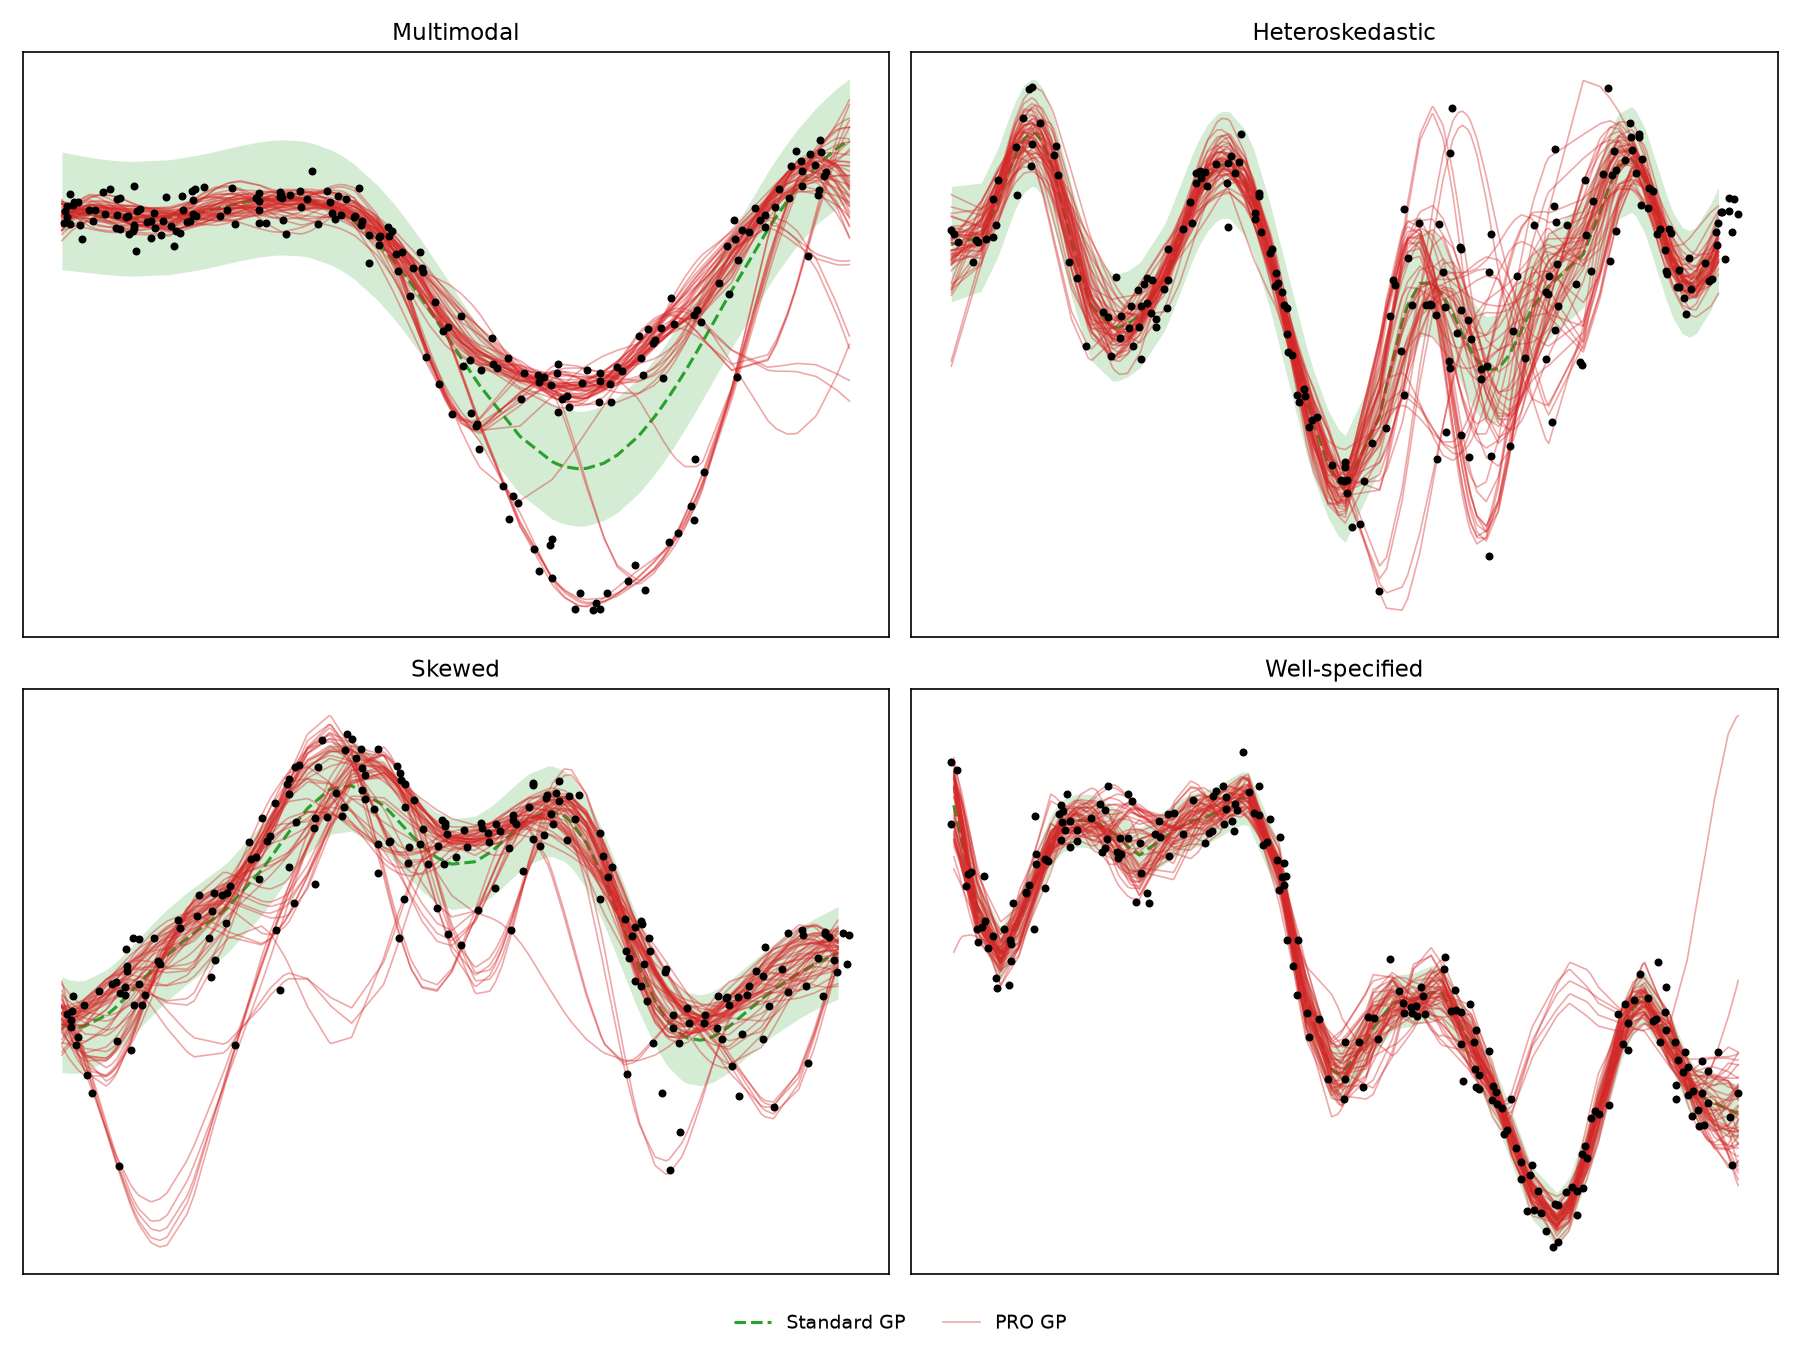
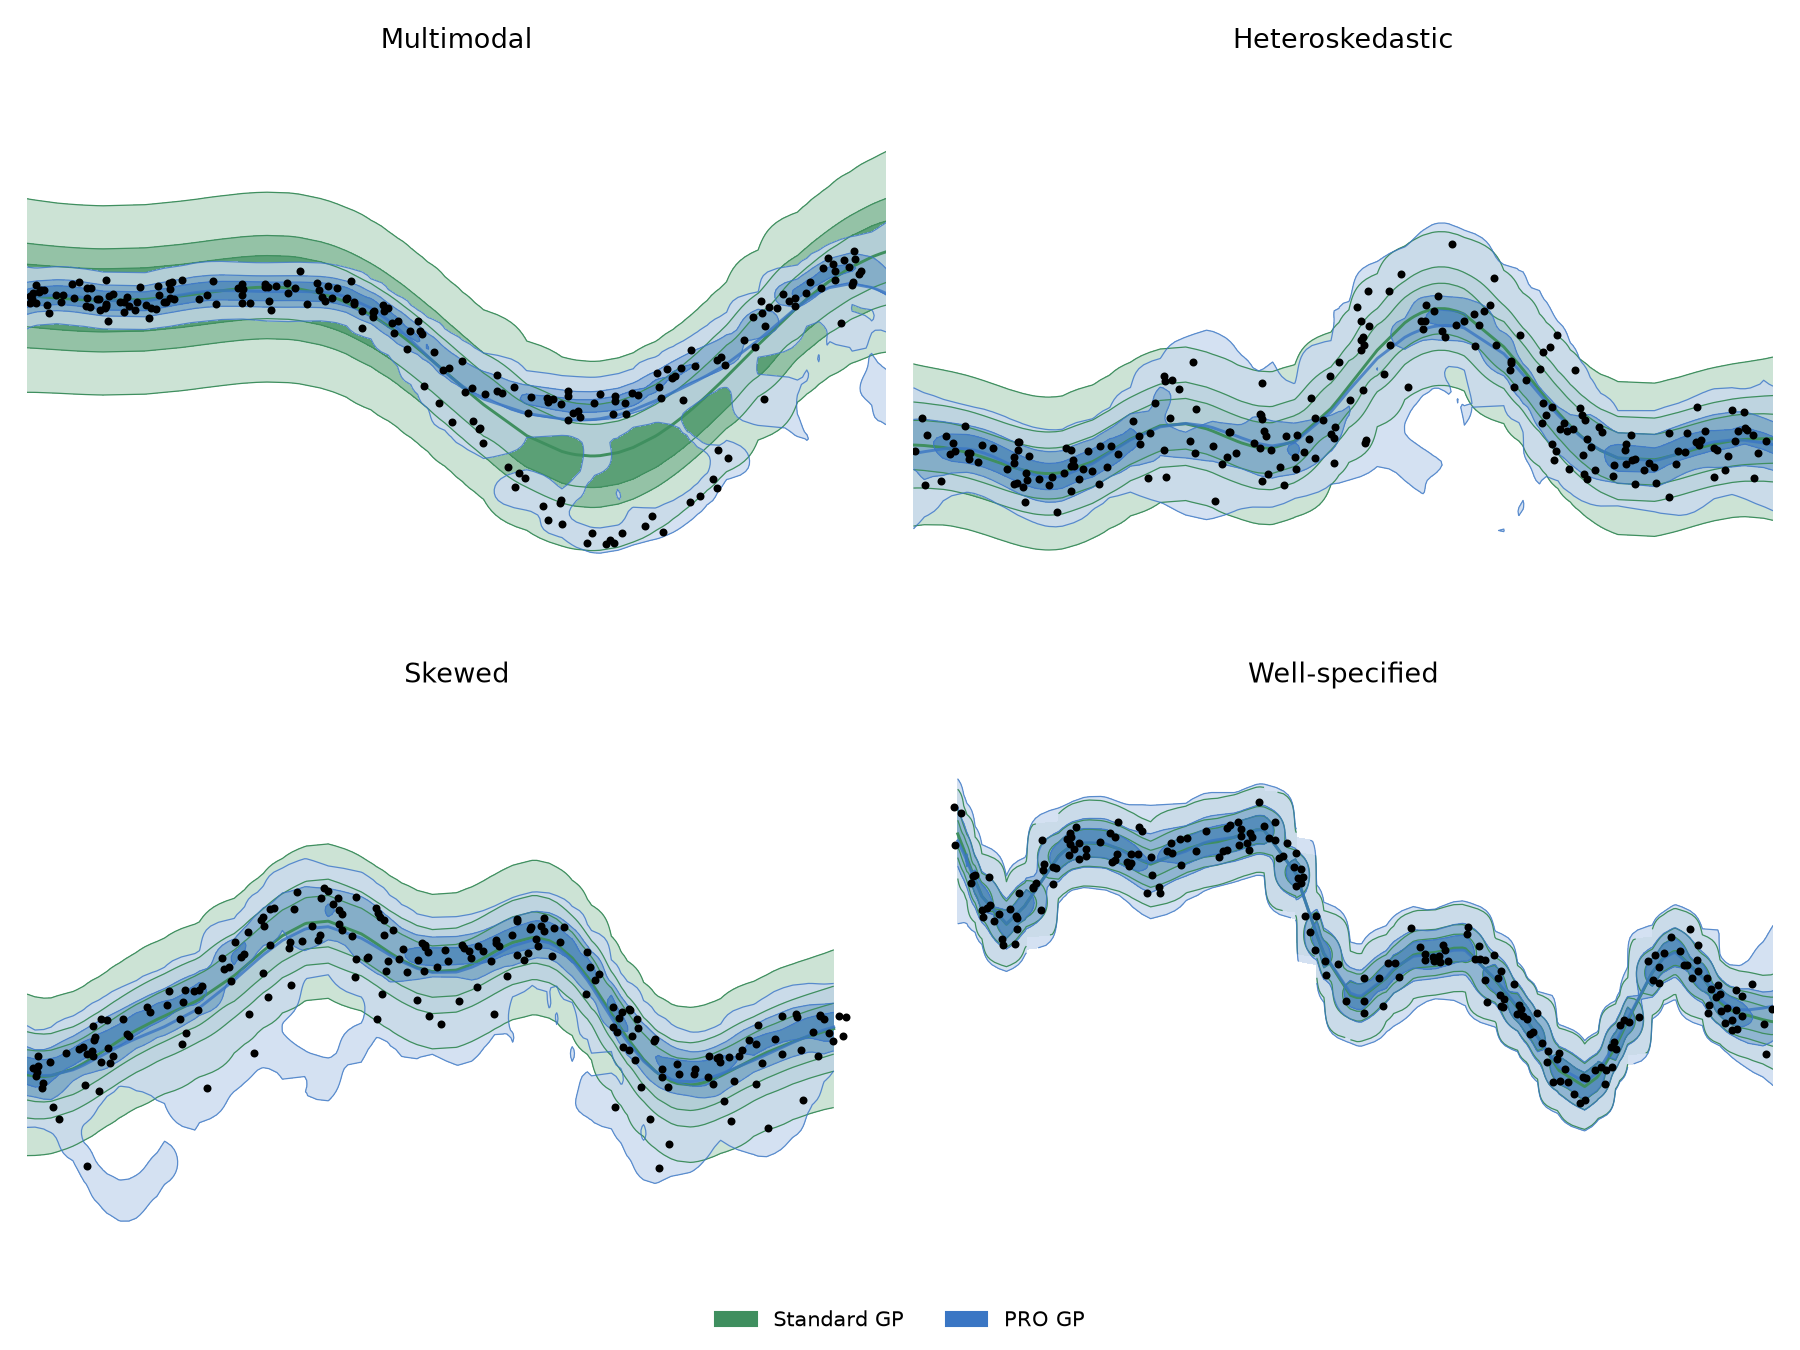
.

diff --git a/experiments/synthetic/example_grid.py b/experiments/synthetic/example_grid.py
@@ -32,6 +32,9 @@ matplotlib.use("Agg")
 import jax.numpy as jnp
 import jax.random as jr
 import matplotlib.pyplot as plt
+import numpy as np
+from matplotlib.colors import LinearSegmentedColormap
+from matplotlib.patches import Patch
 
 from non_parametric_pro.data.heteroskedastic import (
     make_heteroskedastic_instance,
@@ -48,8 +51,35 @@ from synthetic import FitResult, fit_gp, fit_pro
 
 FIGURES_DIR = Path(__file__).resolve().parent / "figures"
 
-GP_COLOR = "C2"
-PRO_COLOR = "C3"
+# GP green vs. PRO blue -- a hue contrast, which holds up far better than a
+# lightness-only contrast (e.g. grey vs. red) once PRO is drawn semi-transparent on top
+# and the two start blending. GP is opaque, drawn first, so it reads as a plain
+# background reference; PRO draws on top with alpha < 1 (see PRO_ALPHA), so GP still
+# shows through wherever they overlap instead of being fully occluded -- important
+# since the two bands are often nearly coincident (that overlap *is* the interesting
+# comparison). Each also gets a crisp outline in its own full color at every band
+# boundary (see _masked_density_bands' edge_color), so shapes stay readable even in the
+# muddiest overlap regions where the fills alone are ambiguous.
+GP_COLOR = "#3f8f5f"
+PRO_COLOR = "#3a76c4"
+GP_CMAP = LinearSegmentedColormap.from_list("gp_density", ["#e8f4ec", GP_COLOR])
+PRO_CMAP = LinearSegmentedColormap.from_list("pro_density", ["#e6eef8", PRO_COLOR])
+PRO_ALPHA = 0.8
+
+# Paper-figure formatting: no ticks (this is a qualitative comparison, not meant for
+# reading off values), no spines (nothing left for them to frame once ticks are gone),
+# a faint grid for scale reference instead.
+plt.rcParams.update({
+    "font.size": 12,
+    "axes.spines.top": False,
+    "axes.spines.right": False,
+    "axes.spines.left": False,
+    "axes.spines.bottom": False,
+    "axes.grid": True,
+    "grid.color": "#e1e0d9",
+    "grid.linewidth": 0.6,
+    "legend.frameon": False,
+})
 
 class SourceSpec(NamedTuple):
     """One panel's dataset source: `kwargs` mirrors that dataset's own
@@ -88,9 +118,9 @@ _SOURCES = [
         "Heteroskedastic",
         make_heteroskedastic_instance,
         plot_heteroskedastic_case,
-        {"num_regions": 2, "amplitude_frac": 0.8, "min_width": 0.3, "max_width": 0.8},
+        {"num_regions": 2, "min_width": 0.3, "max_width": 0.8},
         {"show_curve": False, "show_noise_bands": False},
-        instance_index=9,
+        instance_index=15,
     ),
     SourceSpec(
         "skewed",
@@ -113,45 +143,103 @@ _SOURCES = [
 ]
 
 
-def _overlay_gp_band(ax, x_test, result: FitResult, *, color, label) -> None:
-    """Standard GP predictive: single-Gaussian mean +- std band. Sort by x and
-    connect -- same convention every `plot_..._case` already uses for the true
-    function."""
+# Shared by both overlays below, so "similar proportion of predictive density shown"
+# is true by construction rather than eyeballed: same credible_k cutoff, same number
+# of band levels, same min_density_frac floor, for both models.
+_DENSITY_DEFAULTS = {"num_bands": 4, "credible_k": 5.0, "num_y": 150, "min_density_frac": 0.03}
+
+
+def _masked_density_bands(  # noqa: PLR0913
+    ax, x_sorted, mean_sorted, std_sorted, density_fn, *,
+    cmap, num_bands, credible_k, num_y, min_density_frac, alpha=1.0, edge_color=None,
+) -> None:
+    """Render `density_fn(y_grid) -> (N_x, N_y) p(y|x)` as a small number of discrete
+    filled bands, masked to each x's own `mean +- credible_k*std` -- so nothing is
+    drawn outside the region a moment-based (mean/std) plot would already call
+    plausible -- and floored at `min_density_frac` of the panel's peak, which is what
+    keeps a handful of discrete bands from looking like one blurry wash rather than a
+    smooth continuous heatmap. `alpha < 1` lets whatever's already drawn underneath
+    (e.g. the other model's band) show through where the two overlap. `edge_color`
+    (typically the model's own full-saturation color, not the light end of `cmap`)
+    strokes a thin outline at every band boundary, so shapes stay legible even where
+    the fills of two overlapping bands are close enough in color to blur together.
+    """
+    y_lo = float(jnp.min(mean_sorted - credible_k * std_sorted))
+    y_hi = float(jnp.max(mean_sorted + credible_k * std_sorted))
+    y_grid = jnp.linspace(y_lo, y_hi, num_y)
+
+    density = density_fn(y_grid)
+    in_band = jnp.abs(y_grid[None, :] - mean_sorted[:, None]) <= credible_k * std_sorted[:, None]
+    density = np.asarray(jnp.where(in_band, density, jnp.nan))
+
+    peak = np.nanmax(density)
+    levels = np.linspace(min_density_frac, 1.0, num_bands) * peak
+
+    x_grid, y_mesh = np.meshgrid(np.asarray(x_sorted), np.asarray(y_grid), indexing="ij")
+    ax.contourf(x_grid, y_mesh, density, levels=levels, cmap=cmap, alpha=alpha, extend="neither")
+    if edge_color is not None:
+        ax.contour(x_grid, y_mesh, density, levels=levels, colors=edge_color, linewidths=0.6, alpha=alpha)
+    ax.plot(x_sorted, mean_sorted, color=edge_color or cmap(1.0), linewidth=1.4, alpha=alpha)
+
+
+def _overlay_gp_density(ax, x_test, result: FitResult, *, cmap, alpha=1.0, **density_kwargs) -> None:
+    """Standard GP predictive: p(y|x) for its single Gaussian mean/std, rendered with
+    the exact same discrete-band/credible-mask convention as `_overlay_pro_density`
+    (identical defaults, see `_DENSITY_DEFAULTS`) -- so the two overlays show a
+    genuinely comparable *proportion* of predictive density, not just visually similar
+    bands. A plain mean +- 1std band has no way to match that masking convention.
+    Drawn fully opaque (default) as the background layer -- see PRO_ALPHA on the other
+    overlay, which is what actually lets this show through underneath it."""
     order = jnp.argsort(x_test[:, 0])
     x_sorted = x_test[order, 0]
     mean_sorted, std_sorted = result.mean[order], result.std[order]
 
-    ax.plot(x_sorted, mean_sorted, color=color, linewidth=1.5, linestyle="--", label=label)
-    ax.fill_between(
-        x_sorted, mean_sorted - std_sorted, mean_sorted + std_sorted,
-        color=color, alpha=0.2, linewidth=0,
+    def density_fn(y_grid):
+        z = (y_grid[None, :] - mean_sorted[:, None]) / std_sorted[:, None]
+        return jnp.exp(-0.5 * z**2) / (std_sorted[:, None] * jnp.sqrt(2 * jnp.pi))
+
+    _masked_density_bands(
+        ax, x_sorted, mean_sorted, std_sorted, density_fn, cmap=cmap, alpha=alpha, edge_color=GP_COLOR,
+        **{**_DENSITY_DEFAULTS, **density_kwargs},
     )
 
 
-def _overlay_pro_draws(ax, x_test, result: FitResult, *, color, label) -> None:
-    """PRO GP predictive: a spaghetti plot of `posterior_function_draws` -- a mean +-
-    std band would moment-match away exactly the multimodality PRO's mixture
-    predictive is meant to capture (a bimodal mixture and a unimodal Gaussian can share
-    the same mean/std). Each line is one smooth, coherent function draw (not per-point
-    noise), so a multimodal predictive shows up as the lines visibly forking into
-    separate bundles rather than one smeared-out band."""
+def _overlay_pro_density(ax, x_test, result: FitResult, *, cmap, alpha=1.0, **density_kwargs) -> None:
+    """PRO GP predictive: the exact mixture-of-Gaussians density p(y|x) -- rendered
+    directly (not sampled), as a small number of discrete filled bands rather than a
+    smooth continuous heatmap, so it stays a light complement to the data rather than a
+    visually heavy layer. A mean +- std band would moment-match away exactly the
+    multimodality this is meant to show (a bimodal mixture and a unimodal Gaussian can
+    share the same mean/std); unlike posterior-function-draws spaghetti, this reads off
+    the density directly (no "how many draws is enough" question), at the cost of being
+    a per-x marginal -- it can't show whether the upper ridge at one x and the upper
+    ridge at another belong to the same coherent function the way draws can. Drawn on
+    top of the standard GP's band with `alpha < 1` (see PRO_ALPHA) so the two remain
+    distinguishable wherever they overlap, rather than PRO fully occluding GP."""
     order = jnp.argsort(x_test[:, 0])
     x_sorted = x_test[order, 0]
-    draws_sorted = result.function_draws[order]
+    mean_sorted = result.mean[order]
+    std_sorted = result.std[order]
+    particle_predictions_sorted = result.particle_predictions[order]  # (N_x, J)
+    sigma_eff_sorted = result.sigma_eff[order]  # (N_x,)
 
-    ax.plot(x_sorted, draws_sorted[:, 0], color=color, linewidth=0.8, alpha=0.4, label=label)
-    ax.plot(x_sorted, draws_sorted[:, 1:], color=color, linewidth=0.8, alpha=0.4)
+    def density_fn(y_grid):
+        # Same sigma_eff each particle is scored with in nlpd_pro, just evaluated on a
+        # dense y grid instead of at the observed y_test.
+        z = (y_grid[None, :, None] - particle_predictions_sorted[:, None, :]) / sigma_eff_sorted[:, None, None]
+        normal_pdf = jnp.exp(-0.5 * z**2) / (sigma_eff_sorted[:, None, None] * jnp.sqrt(2 * jnp.pi))
+        return jnp.mean(normal_pdf, axis=2)
+
+    _masked_density_bands(
+        ax, x_sorted, mean_sorted, std_sorted, density_fn, cmap=cmap, alpha=alpha, edge_color=PRO_COLOR,
+        **{**_DENSITY_DEFAULTS, **density_kwargs},
+    )
 
 
 def main(seed: int, num_instances: int, index_overrides: dict[str, int]) -> None:
-    # Same convention as `synthetic.py`'s `evaluate`/`debug_instance`: one shared key
-    # split `num_instances` ways, so index `i` here is the *same* draw `mode=panel`
-    # panel position `i` (or `mode=instance instance_index=i`) would show for that
-    # source, given the same seed/num_instances/kwargs.
     keys = jr.split(jr.PRNGKey(seed), num_instances)
 
     fig, axes = plt.subplots(2, 2, figsize=(12, 9))
-    handles, labels = None, None
 
     for ax, spec in zip(axes.flat, _SOURCES, strict=True):
         index = index_overrides.get(spec.name, spec.instance_index)
@@ -169,20 +257,23 @@ def main(seed: int, num_instances: int, index_overrides: dict[str, int]) -> None
         kernel_type = getattr(data, "kernel_type", "rbf")
 
         gp_result = fit_gp(data, kernel_type=kernel_type)
-        _overlay_gp_band(ax, data.x_test, gp_result, color=GP_COLOR, label="Standard GP")
+        _overlay_gp_density(ax, data.x_test, gp_result, cmap=GP_CMAP)
 
         fit_key, _ = jr.split(instance_key)
         pro_result = fit_pro(data, fit_key, kernel_type=kernel_type)
-        _overlay_pro_draws(ax, data.x_test, pro_result, color=PRO_COLOR, label="PRO GP")
+        _overlay_pro_density(ax, data.x_test, pro_result, cmap=PRO_CMAP, alpha=PRO_ALPHA)
 
-        ax.set_title(spec.title, fontsize=11)
+        ax.set_title(spec.title, fontsize=13)
         ax.set_xticks([])
         ax.set_yticks([])
 
-        if handles is None:
-            handles, labels = ax.get_legend_handles_labels()
-
-    fig.legend(handles, labels, loc="lower center", ncol=len(labels), fontsize=9, frameon=False)
+    # contourf isn't a labeled artist `ax.get_legend_handles_labels()` picks up, so
+    # build the shared legend from explicit proxies instead of collecting from an axes.
+    legend_handles = [
+        Patch(color=GP_COLOR, label="Standard GP"),
+        Patch(color=PRO_COLOR, label="PRO GP"),
+    ]
+    fig.legend(handles=legend_handles, loc="lower center", ncol=2, fontsize=10, frameon=False)
     fig.tight_layout(rect=(0, 0.04, 1, 1))
     out_path = FIGURES_DIR / "example_grid.png"
     fig.savefig(out_path, dpi=150)

diff --git a/experiments/synthetic/synthetic.py b/experiments/synthetic/synthetic.py
@@ -95,6 +95,7 @@ from non_parametric_pro.util import (
     posterior_function_draws,
     prediction_basis,
     predictive_moments,
+    project_particles,
     run_inference_algorithm_with_burn_in,
 )
 
@@ -179,15 +180,21 @@ def run_dataset_instance(
 class FitResult(NamedTuple):
     """A fitted model's test-set predictive summary: `mean`/`std` for plotting a
     (moment-matched) predictive band, `nlpd_per_point` for scoring (what `evaluate`
-    actually uses). `function_draws` is `fit_pro`-only (shape `(N_test, num_draws)`,
-    `None` for `fit_gp`) -- smooth, coherent posterior function trajectories, for when
-    `mean`/`std` alone would hide a multimodal predictive (see
-    `non_parametric_pro.util.posterior_function_draws`)."""
+    actually uses). The remaining fields are `fit_pro`-only (`None` for `fit_gp`) --
+    ways to see the actual mixture predictive that `mean`/`std` moment-match away:
+    `function_draws` (shape `(N_test, num_draws)`) are smooth, coherent posterior
+    function trajectories (see `non_parametric_pro.util.posterior_function_draws`);
+    `particle_predictions` (shape `(N_test, J_total)`, one column per retained
+    particle) and `sigma_eff` (shape `(N_test,)`) are the raw ingredients of the exact
+    mixture density `p(y|x) = mean_j N(y; particle_predictions[:, j], sigma_eff)` --
+    e.g. for rendering it directly as a density heatmap rather than sampling it."""
 
     mean: jnp.ndarray
     std: jnp.ndarray
     nlpd_per_point: jnp.ndarray
     function_draws: jnp.ndarray | None = None
+    particle_predictions: jnp.ndarray | None = None
+    sigma_eff: jnp.ndarray | None = None
 
 
 def fit_gp(data, key=None, *, kernel_lengthscale=0.3, kernel_type="rbf") -> FitResult:
@@ -336,7 +343,13 @@ def fit_pro(  # noqa: PLR0913
         draw_key, test_basis, test_cov, particles, num_draws=num_function_draws
     )
 
-    return FitResult(mean=mean, std=std, nlpd_per_point=nlpd_per_point, function_draws=function_draws)
+    particle_predictions = project_particles(test_basis, particles)
+    sigma_eff = jnp.sqrt(sigma_val**2 + residual_std**2)
+
+    return FitResult(
+        mean=mean, std=std, nlpd_per_point=nlpd_per_point, function_draws=function_draws,
+        particle_predictions=particle_predictions, sigma_eff=sigma_eff,
+    )
 
 
 def evaluate(get_instance, fit_function, key, num_instances, *, region_mask_fn=None):
